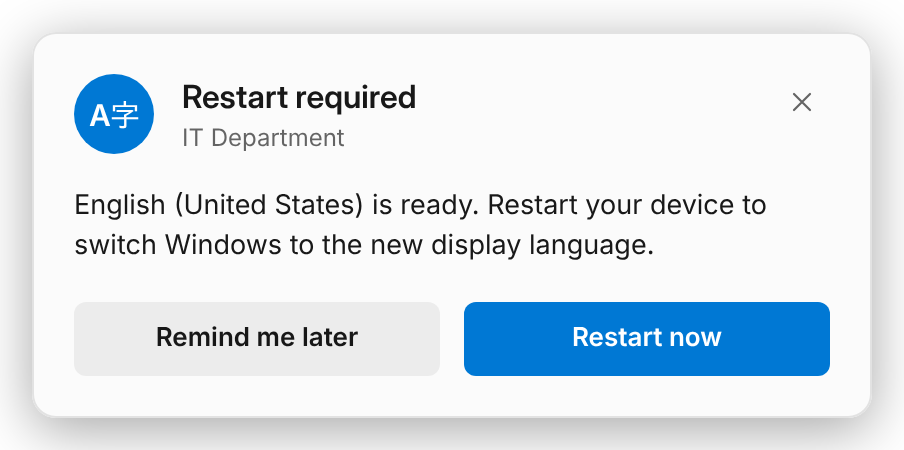
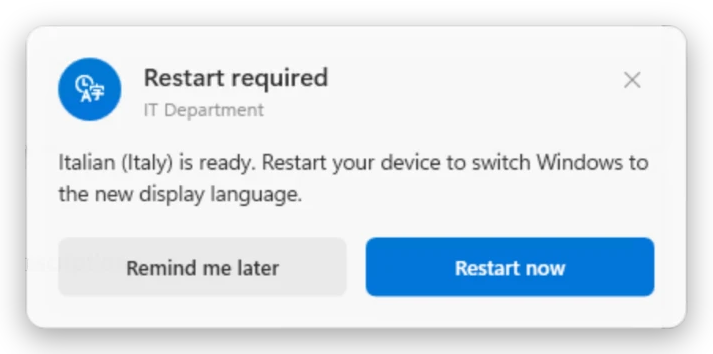
Add real restart reminder screenshots to Set-DeviceLanguage README
Company Portal after the install with the restart reminder next to the
installing screenshot, and the light mode preview replaced by the real
popup.

diff --git a/Win32Apps/Set-DeviceLanguage/README.md b/Win32Apps/Set-DeviceLanguage/README.md
@@ -157,7 +157,9 @@ Use dynamic device groups or Autopilot group tags if different locations need di
 
 One app per language, all based on the same package. Users pick their language in the Company Portal and click Install.
 
-![Language app installing in the Company Portal](images/company-portal-installing.png)
+| Installing | Installed, restart reminder |
+|---|---|
+| ![Language app installing in the Company Portal](images/company-portal-installing.png) | ![Language app installed, restart reminder in the bottom right corner](images/company-portal-restart-reminder.png) |
 
 | Setting | Value |
 |---|---|
